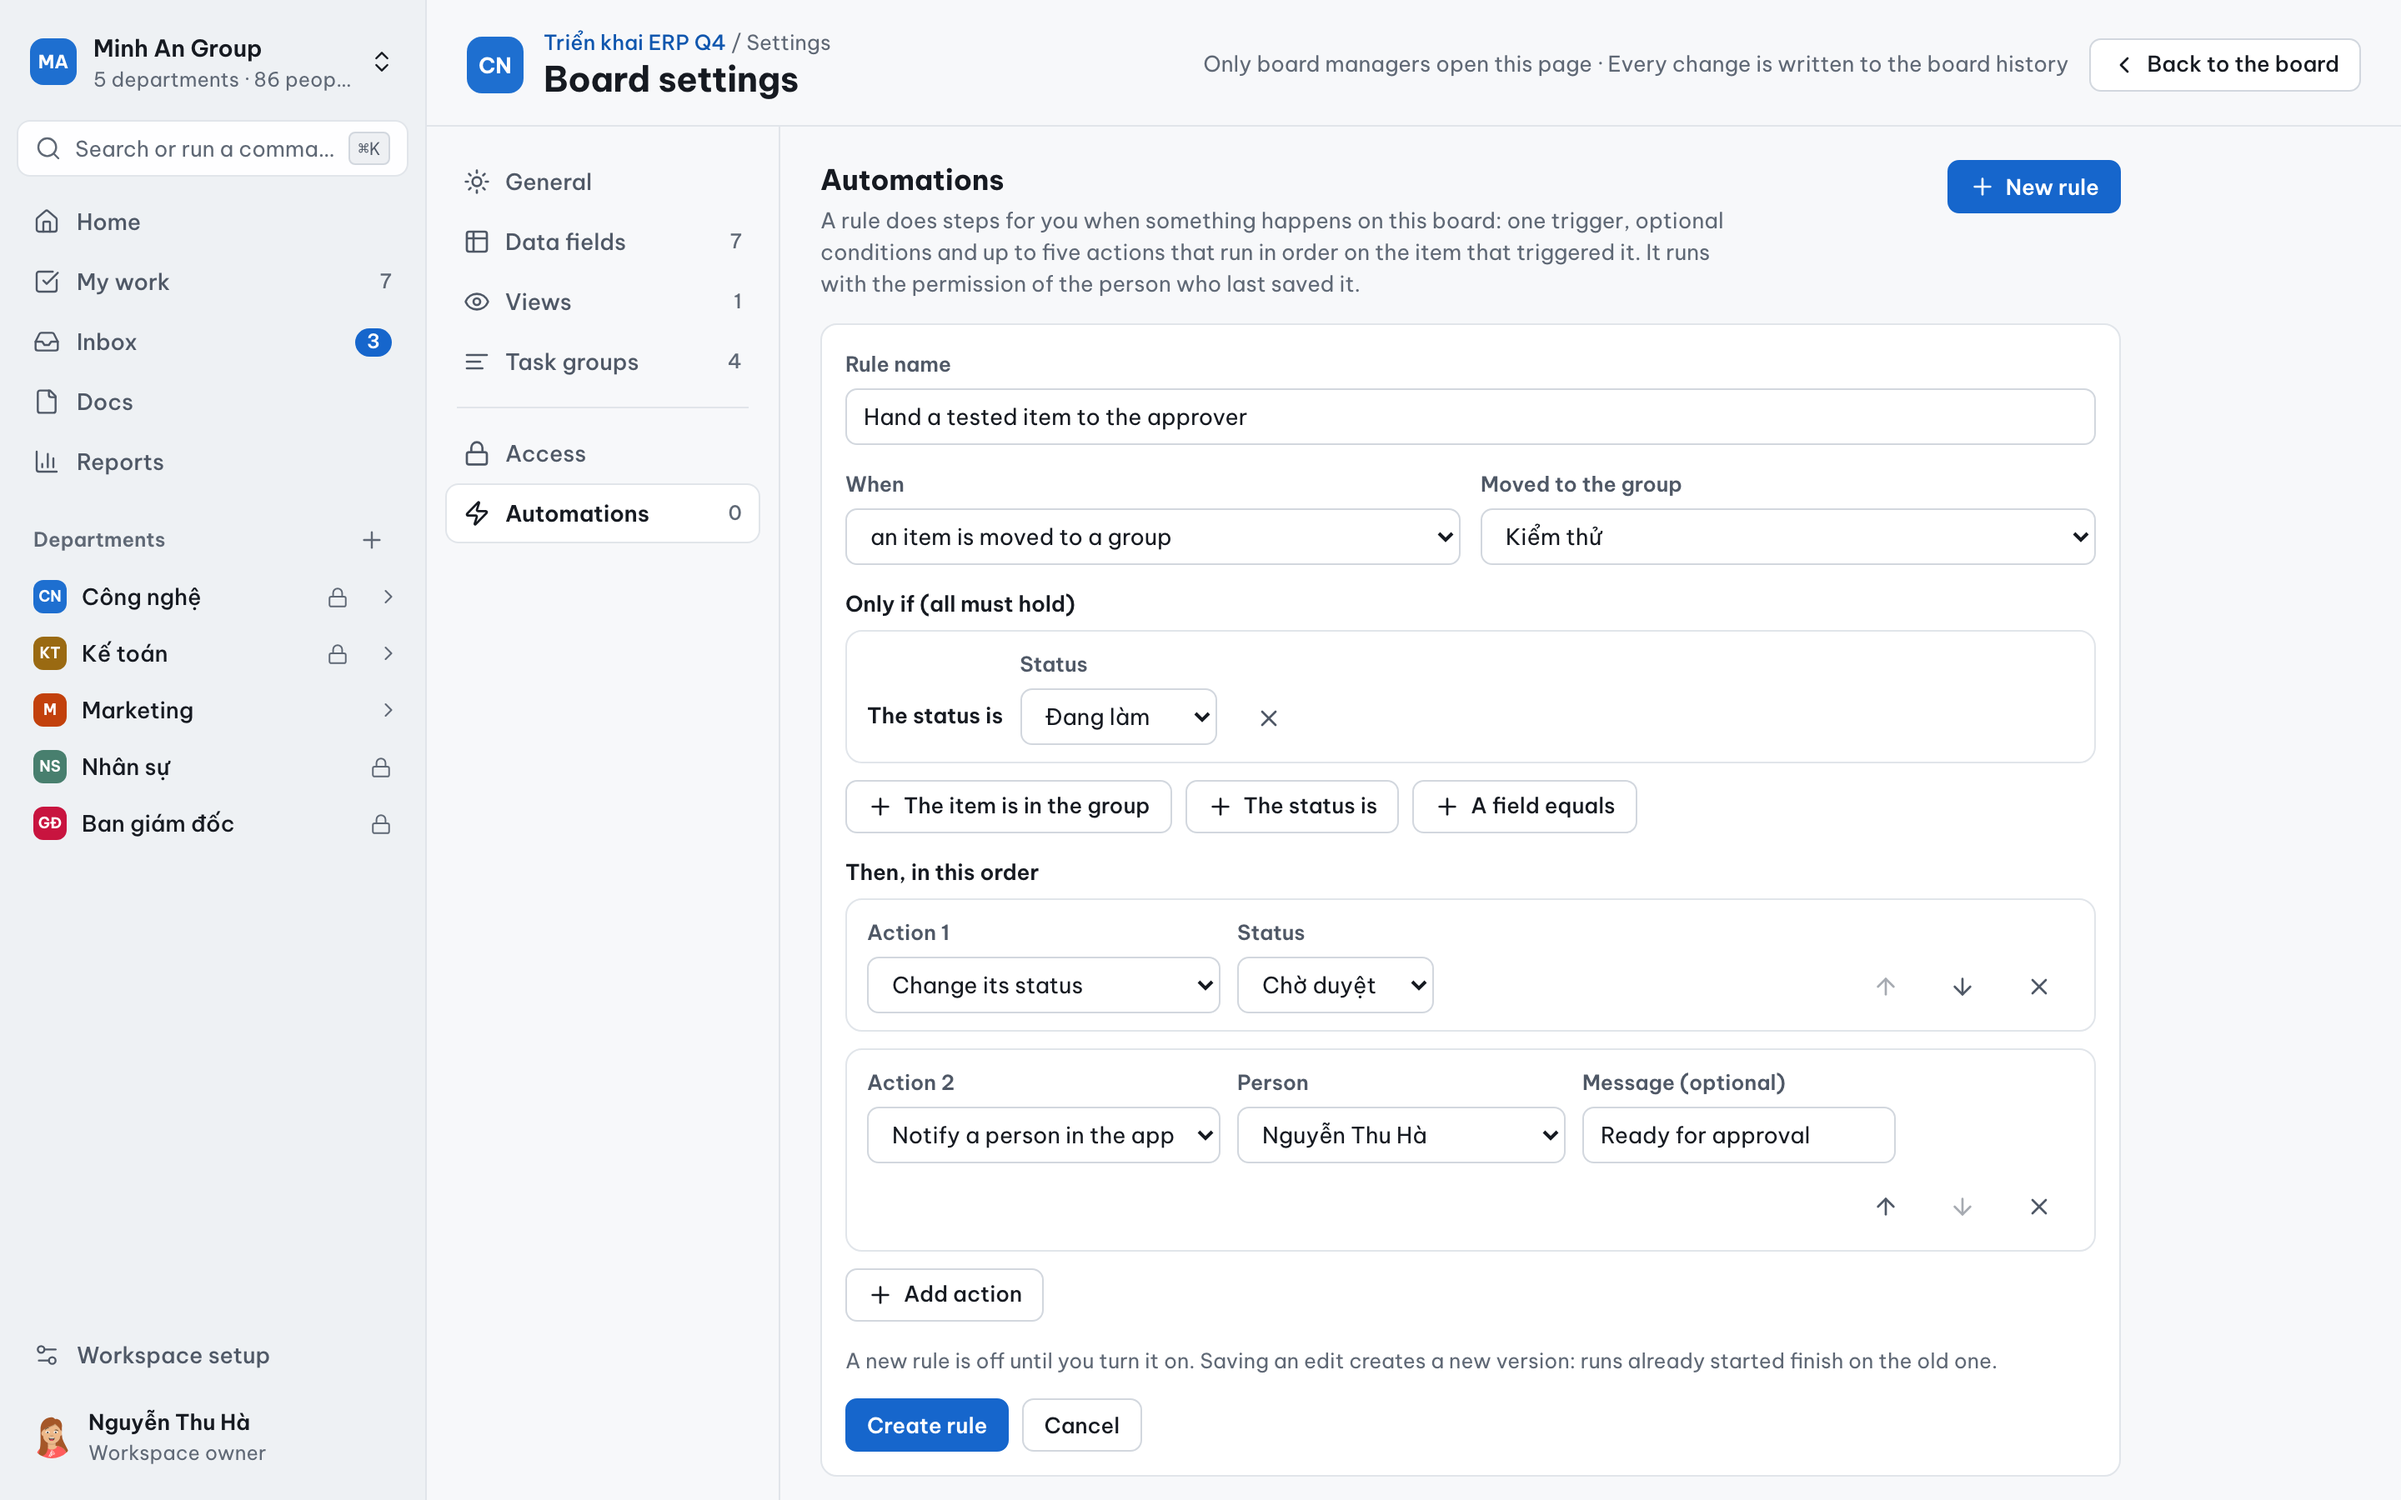
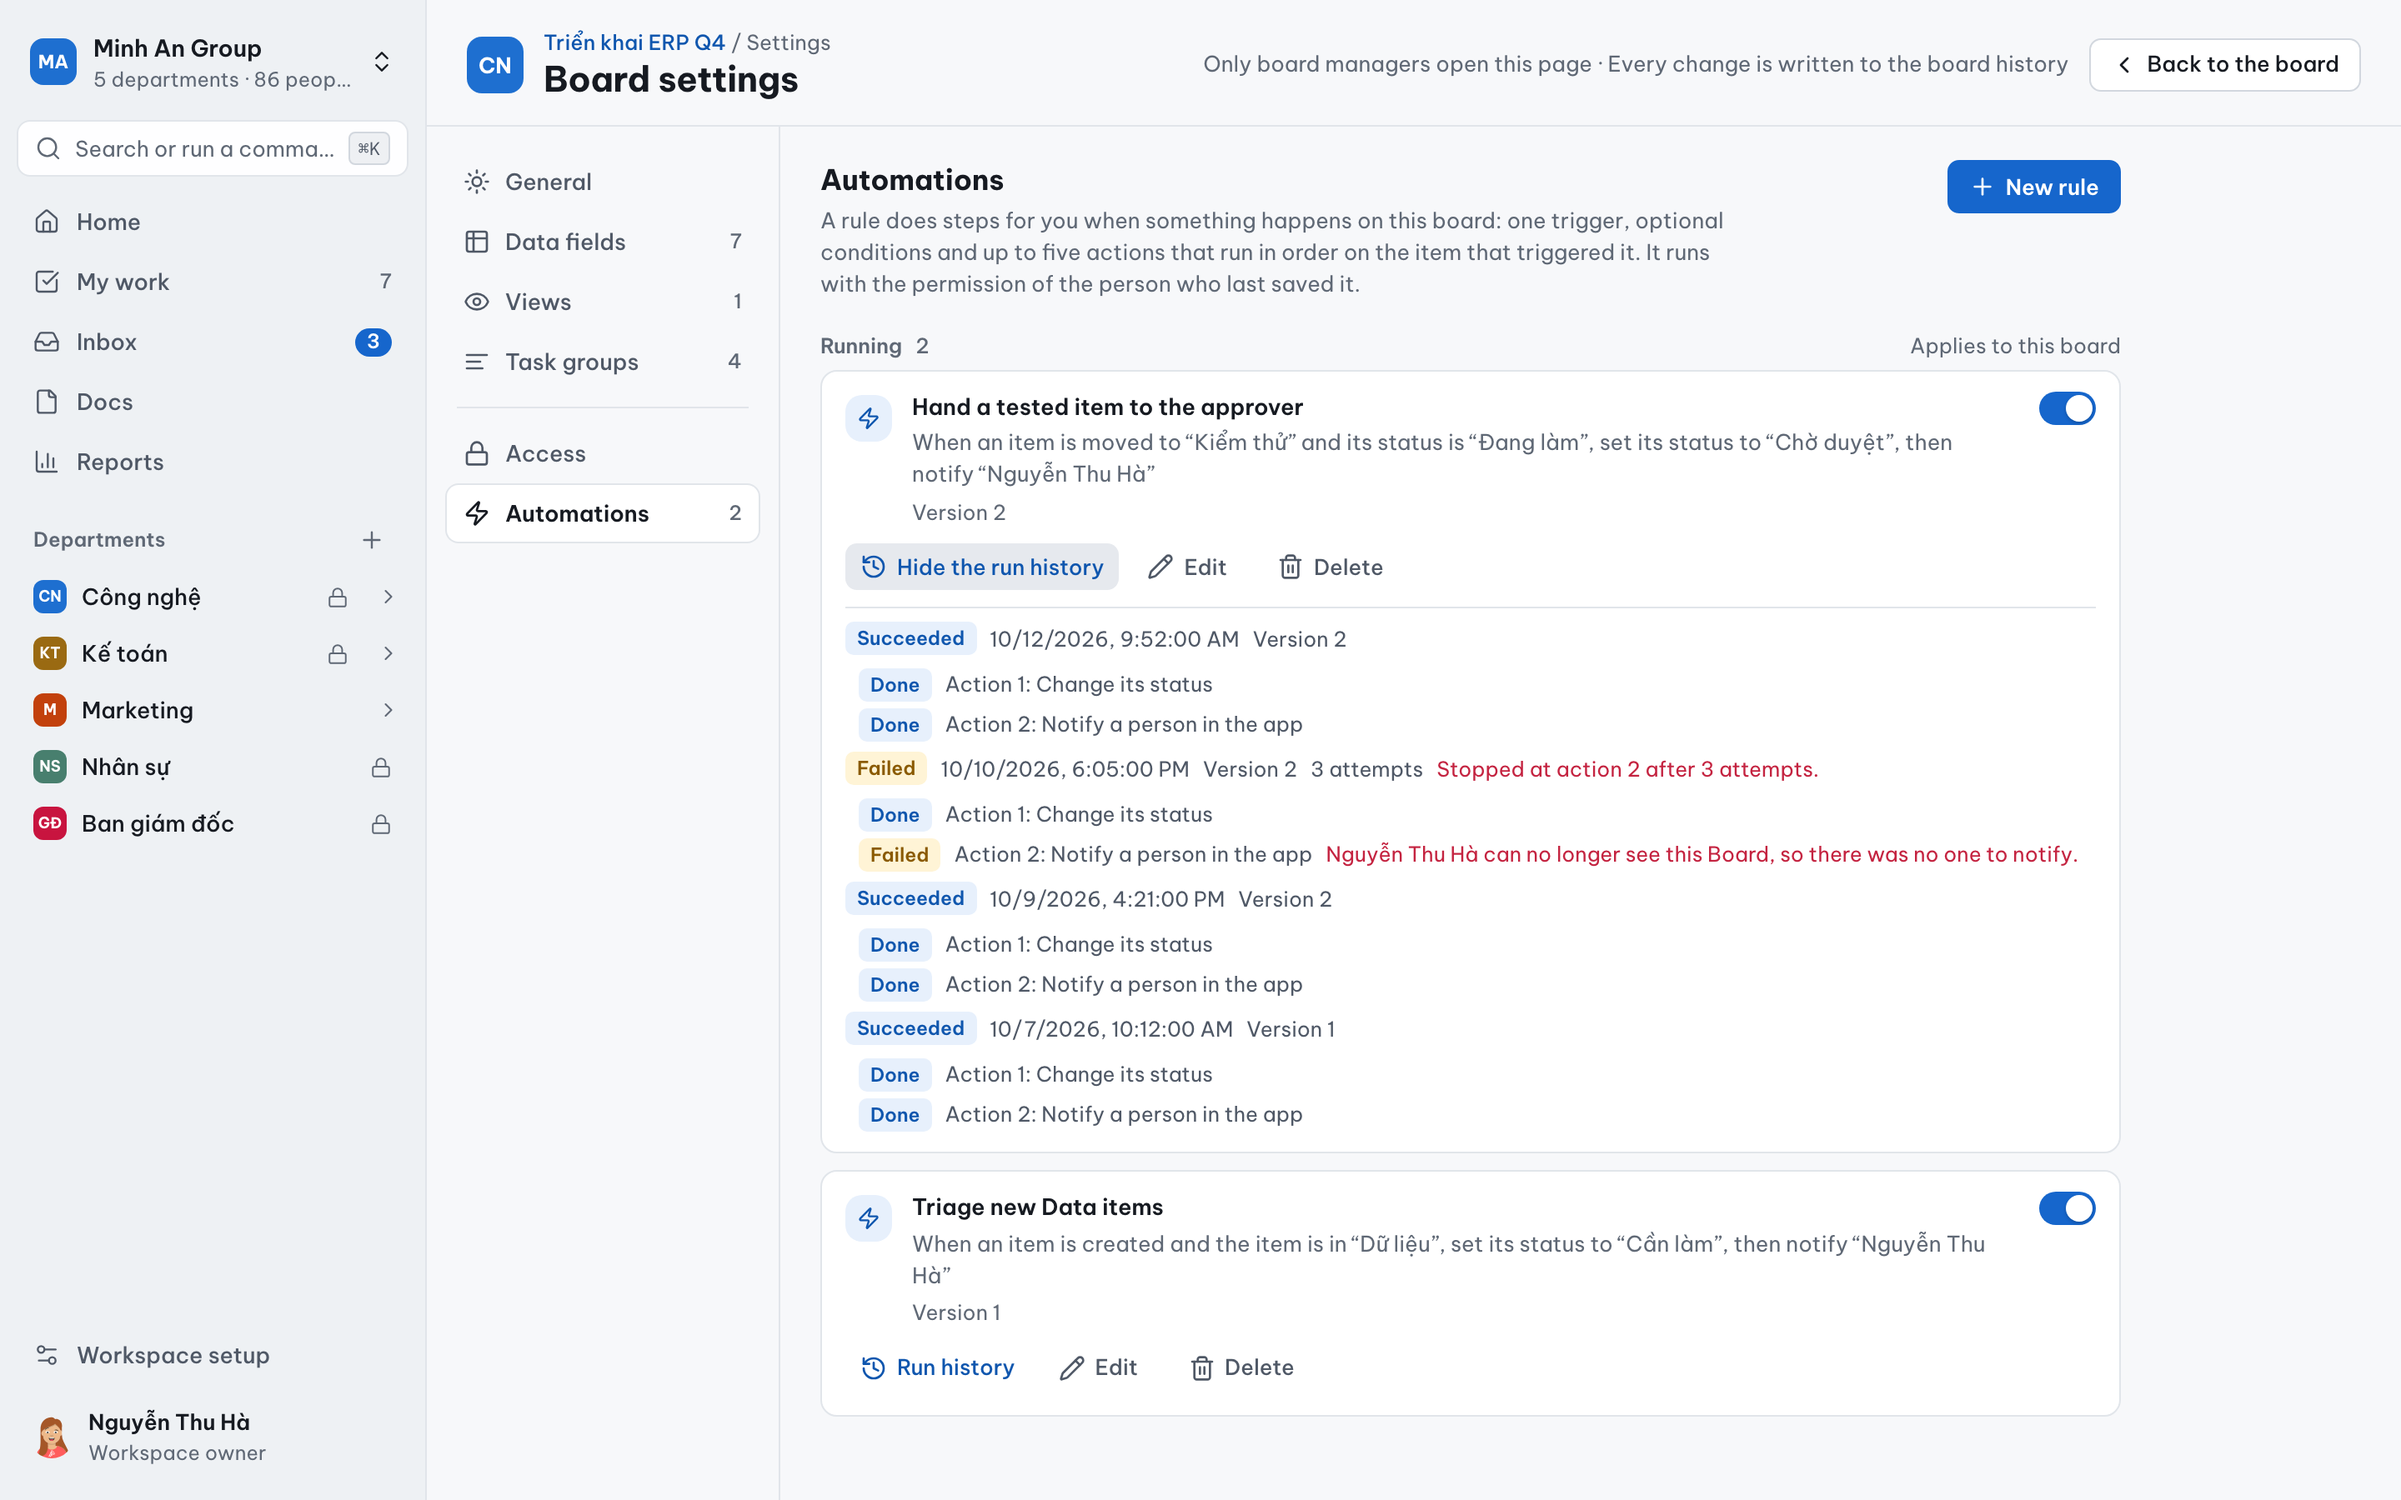
feat(marketing): show run history on the Automation tab, comments and approval on the Item tab, tighter Inbox and Departments crops, and only claims the product ships

diff --git a/frontend/apps/marketing/src/messages/en.ts b/frontend/apps/marketing/src/messages/en.ts
@@ -169,10 +169,10 @@ export const messages = {
         benefits: [
           "Can view, can comment, can edit or Manager, per person or team",
           "Guests outside the company are marked and see one Board",
-          "Permission history for every change",
+          "Board managers can read the permission history",
         ],
         link: "How we protect your data",
-        alt: "The Share dialog of a Board: access through the department, five permissions with their levels, a guest marked as outside the company, the Board link and the permission history",
+        alt: "The Share dialog of a Board: access through the department, the permissions given on the Board with their levels, a team, and a guest marked as outside the company",
       },
       {
         id: "departments",
@@ -198,11 +198,11 @@ export const messages = {
       {
         id: "item",
         label: "Item",
-        alt: "An item page: the description with a linked doc, sub-items with their progress, links and files, and every field of the item in a side panel",
+        alt: "An item page: the comments on the item, one of them mentioning a person, and a side panel with the approval the item is waiting on and every field of the item",
         notes: {
-          properties: "Every field of the item, in one panel",
-          subitems: "Sub-items roll their progress up",
-          links: "Dependencies and files stay on the item",
+          approval: "Approval status",
+          comments: "Comment on the item and @mention a person",
+          properties: "Every field here",
         },
       },
       {
@@ -218,11 +218,11 @@ export const messages = {
       {
         id: "automation",
         label: "Automation",
-        alt: "The Automations settings of a Board with a rule being written: a trigger, a condition and two actions that run in order",
+        alt: "The Automations settings of a Board: a rule that moves an item to approval and notifies the approver, with its run history: each run, the rule version it ran on and the result of every action, including one that failed with its reason",
         notes: {
-          trigger: "Start from something that happens on the Board",
-          conditions: "Narrow it with conditions",
-          actions: "Up to five actions, in the order you choose",
+          rule: "One sentence, a version per edit",
+          history: "Every run, with the result of each action",
+          failure: "A failed action says why",
         },
       },
       {

diff --git a/frontend/e2e/marketing/marketing-smoke.marketing.e2e.spec.ts b/frontend/e2e/marketing/marketing-smoke.marketing.e2e.spec.ts
@@ -152,9 +152,9 @@ test.describe("Marketing Smoke", () => {
     await expect(
       showcase.getByRole("list", { name: "Automation" }).getByRole("listitem"),
     ).toHaveText([
-      /Start from something that happens on the Board/,
-      /Narrow it with conditions/,
-      /Up to five actions/,
+      /One sentence, a version per edit/,
+      /Every run, with the result of each action/,
+      /A failed action says why/,
     ]);
 
     await tablist.getByRole("tab", { name: "Automation" }).focus();

diff --git a/frontend/apps/marketing/src/sections/story-sections.tsx b/frontend/apps/marketing/src/sections/story-sections.tsx
@@ -15,7 +15,7 @@ type StoryId = keyof typeof crops;
 const storyMeta: Record<StoryId, { card?: number; href: string }> = {
   inbox: { href: `${env.webAppUrl}/sign-up` },
   sharing: { card: 576, href: "/legal/privacy" },
-  departments: { card: 384, href: "#pricing" },
+  departments: { card: 460, href: "#pricing" },
 };
 
 /**
